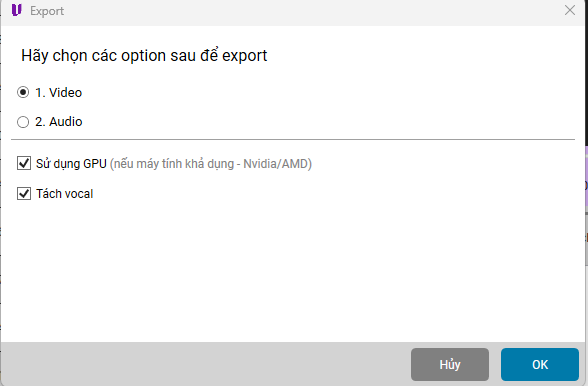
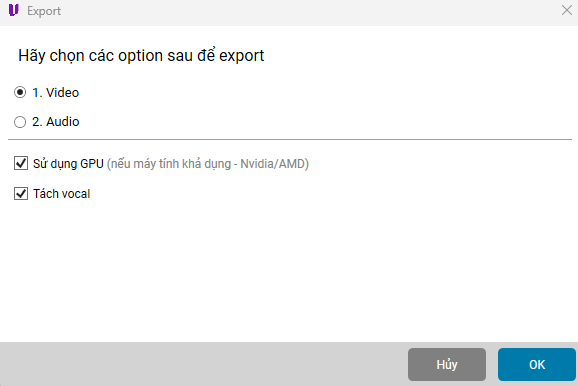
update ui

diff --git a/src/components/Highlight.js b/src/components/Highlight.js
@@ -1,0 +1,15 @@
+import React from 'react';
+
+const Highlight = ({children, color}) => (
+  <span
+    style={{
+      backgroundColor: color,
+      borderRadius: '2px',
+      color: '#fff',
+      padding: '0.2rem',
+    }}>
+    {children}
+  </span>
+);
+
+export default Highlight;

diff --git a/docusaurus.config.ts b/docusaurus.config.ts
@@ -86,6 +86,7 @@ const config: Config = {
           label: 'Hướng dẫn',
         },
         { to: '/blog', label: 'Changelog', position: 'left' },
+        { to: '/download', label: 'Download', position: 'left' },
         
       ],
     },

diff --git a/docs/tutorial-basics/5-thuyet-minh.md b/docs/tutorial-basics/5-thuyet-minh.md
@@ -11,44 +11,51 @@ Dịch và lồng tiếng phim từ ngôn ngữ này sang ngôn ngữ khác
 #### *Hình 1 - Giao diện template thuyết minh phim*
 
 ## I. Dịch phim
-    1. Lấy lyric
-        - Tự động
-            - Ở Menu **Lyric gốc** -> **Tạo tự động**. Thư viện sẽ tạo generate ra file .srt và tự động import máy tính
-        - Upload từ máy tính
-            - Ở Menu **Lyric gốc** -> **Upload từ máy tính**
-    2. Dịch
-        - Dịch tự động: **Lyric dịch** -> **Dịch**
-            - Chat GPT (Recommend)
-            - Microsoft
-        - Tải từ máy tính: **Lyric dịch** -> **Upload từ máy tính**
+
+### 1. Lấy lyric
+    - Tự động
+        - Ở Menu **Lyric gốc** -> **Tạo tự động**. Thư viện sẽ tạo generate ra file .srt và tự động import máy tính
+    - Upload từ máy tính
+        - Ở Menu **Lyric gốc** -> **Upload từ máy tính**
+### 2. Dịch
+    - Dịch tự động: **Lyric dịch** -> **Dịch**
+        - Chat GPT (Recommend)
+        - Microsoft
+    - Tải từ máy tính: **Lyric dịch** -> **Upload từ máy tính**
         
-    
-    *P/s: Sau khi dịch, bạn cần review lại bản dịch để confirm lại*
+:::note    
+Sau khi dịch, bạn cần review lại bản dịch để confirm lại
+:::
 
 ## II. Lồng tiếng
 
-    1. Tải audio
-        - Click vào item ở hình 1, ở trường **Chọn giọng TTK**, click vào ⋮ và áp dụng cho *tất cả* hoặc chọn *các item* tùy ý
-        - Có thể chọn clone sau khi tạo audio
-        - Menu **Audio** -> **Download Audio**
-        - Tải audio: bạn có thể chọn tốc độ phù hợp với giọng nói ở phim để download
+### 1. Tải audio
 
-        ![download-audio](/img/common/download-audio.png)
+    - Click vào item ở hình 1, ở trường **Chọn giọng TTK**, click vào ⋮ và áp dụng cho *tất cả* hoặc chọn *các item* tùy ý
+    - Có thể chọn clone sau khi tạo audio
+    - Menu **Audio** -> **Download Audio**
+    - Tải audio: bạn có thể chọn tốc độ phù hợp với giọng nói ở phim để download
 
-        **Hình 2 - Cửa sổ download audio**
+    ![download-audio](/img/common/download-audio.png)
 
-    2. Export video
-        - Chọn option xử lý audio (Ở phần *Cài đặt chung* trên hình 1)
-            - Mặc định
-            - Tự điều chỉnh tốc độ âm thanh
-            - Cắt phần âm thanh bị đè
-            - Kéo dãn video
-            - Tự động kéo dãn video và âm thanh
-            - Tự động điều chỉnh âm thanh
-        - Export
-            - Chọn sử dụng GPU hoặc không
-            - Tách vocal nếu muốn loại bỏ tiếng gốc của phim
+    **Hình 2 - Cửa sổ download audio**
 
-        ![export-video](/img/common/export-video.png)
+:::tip    
+Nếu tốc độ đọc của phim gốc nhanh, bạn cần chọn tốc độ cao khi download
+:::
 
-        **Hình 3 - Cửa sổ export video**
+### 2. Export video
+- Chọn option xử lý audio (Ở phần *Cài đặt chung* trên hình 1)
+    - Mặc định
+    - Tự điều chỉnh tốc độ âm thanh
+    - Cắt phần âm thanh bị đè
+    - Kéo dãn video
+    - Tự động kéo dãn video và âm thanh
+    - Tự động điều chỉnh âm thanh
+- Export
+    - Chọn sử dụng GPU hoặc không
+    - Tách vocal nếu muốn loại bỏ tiếng gốc của phim
+
+![export-video](/img/common/export-video.png)
+
+**Hình 3 - Cửa sổ export video**

diff --git a/docs/tutorial-basics/3-install-lib.md b/docs/tutorial-basics/3-install-lib.md
@@ -11,26 +11,26 @@ Cài đặt thư viện để sử dụng đầy đủ tính năng của ứng d
 Thư viện sẽ chuyển đổi video, audio ra text dạng file .srt format
 
 1. Download
-    - Download thư viện ở [lyric_driver](https://drive.google.com/file/d/1fbsjYrpJGJD2tYhNZSyUsWi8jmZbSeDS/view)
+    - Download thư viện ở **[Lyric driver](https://drive.google.com/file/d/1fbsjYrpJGJD2tYhNZSyUsWi8jmZbSeDS/view)**
     - Giải nén file vừa download (Recommend ở ổ đĩa SSD)
 2. Cài đặt
     - Vào project bất kỳ, ở thành Menu tìm đến **Công cụ** -> **Nhận diện lyric**
-    - Chọn đến file **lyric_.exe** ở thư mục vừa giải nén
+    - Chọn đến file `lyric_.exe` ở thư mục vừa giải nén
 
 ![Lyric](/img/lib/lyric.png)
 
-#### *Hình 1 - Giao diện thư viện lấy lyric*
+#### *Hình 1 - Giao diện thư viện get lyric*
 
 ## II. Thư viện clone audio
 
 1. Download
-    - Download thư viện ở [clone_driver](https://drive.google.com/file/d/1nNkbe6iX3K-JzWOKErvDmQYR5wABDBMM/view)
+    - Download thư viện ở **[clone driver](https://drive.google.com/file/d/1nNkbe6iX3K-JzWOKErvDmQYR5wABDBMM/view)**
     - Giải nén file vừa download (Recommend ở ổ đĩa SSD)
 2. Cài đặt
     - Vào project bất kỳ, ở thành Menu tìm đến **Công cụ** -> **Voice clone**
     - Chọn đến thư mục vừa giải nén
 3. Thêm các giọng clone
-    - Tải các giọng clone ở dạng file .zip ở các link sau [web](https://voice-models.com/) hoặc [model_driver](https://drive.google.com/drive/folders/1ur5F2J7mP2g6AAdrJde96UPxywDLQOs7)
+    - Tải các giọng clone ở dạng file `.zip` ở các link sau **[web](https://voice-models.com/)** hoặc **[model driver](https://drive.google.com/drive/folders/1ur5F2J7mP2g6AAdrJde96UPxywDLQOs7)**
     - Sau khi download xong, vào cửa sổ vừa mở (hình 2), nhấn **Thêm** và chọn đến các đường dẫn file vừa download
     - Chọn ngôn ngữ của giọng vừa download và sửa tên phù hợp để dễ dàng sử dụng
 
@@ -43,8 +43,9 @@ Thư viện sẽ chuyển đổi video, audio ra text dạng file .srt format
 1. Cài đặt
     - Vào project bất kỳ, ở thành Menu tìm đến **Công cụ** -> **Tách vocal**
     - Cửa sổ tách vocal hiện ra (hình 3), vào **Công cụ** -> **Cài đặt manual**
-    - Chương trình sẽ ghi xuống 1 file .bat vào máy tính
-    - Bạn chạy file .bat (nhiều hơn 2 lần) cho đến khi báo thành công
+    - Chương trình sẽ ghi xuống 1 file `remove_vocal.bat` vào máy tính
+    - Mở terminal tại thư mục, gõ tên `remove_vocal.bat` và Enter
+    - Chạy ít nhất 3 lần cho đến khi báo thành công
     - Khởi động lại máy tính, tìm đến cửa sổ Tách Vocal. Ở phía dưới cửa sổ, có button ***Bắt đầu xử lý*** là đã cài đặt thành công
 
 ![RemoveVocal](/img/lib/remove-vocal.png)

diff --git a/docs/tutorial-basics/4-text2speech.md b/docs/tutorial-basics/4-text2speech.md
@@ -13,12 +13,15 @@ Hỗ trợ nhiều ngôn ngữ và nhiều giọng
 - Tiếng Tây Ban Nha
 - Tiếng Bồ Đào Nha
 
-## Chuyển đổi
+## Chọn giọng và nhập văn bản
 
-- B1. Chọn 1 trong 2 loại giọng **TTK** hoặc **Microsoft**, sau đó có thể chọn **clone**
-- B2. Nhập văn bản cần chuyển đổi vào input
-- B3. Nếu chọn **clone**, ở phần **Cài đặt nâng cao**, chọn đúng **Embbedder model** phù hợp với ngôn ngữ
-- B4. Nhấn vào **Export** hoặc **Tạo audio**, đặt tên file output và sau đó nhấn **OK**
+- Chọn 1 trong 2 loại giọng **TTK** hoặc **Microsoft**, sau đó có thể chọn **clone**
+- Nếu chọn **clone**, cần chọn giọng đúng với ngôn ngữ và ở phần **Cài đặt nâng cao**, chọn đúng **Embbedder model** phù hợp với ngôn ngữ đó
+- Nhập văn bản cần chuyển đổi vào input
+
+## Export audio
+
+- Nhấn vào **Export** hoặc **Tạo audio**, đặt tên file output và sau đó nhấn **OK**
 
 ![rvc](/img/speech2text/rvc.png)
 

diff --git a/docs/intro.md b/docs/intro.md
@@ -25,8 +25,9 @@ Tạo project để làm việc
 
 Các thư viện cần thiết để chạy project full tính năng
 
-- Thư viện generate lyric -> lấy lyric của video, audio
+- Thư viện generate lyric -> speech 2 text
 - Thư viện voice clone -> clone giọng nói
+- Thư viện tách vocal
 
 ## Các tính năng chính
 
@@ -35,5 +36,8 @@ Các thư viện cần thiết để chạy project full tính năng
  3. Viết lại kịch bản theo phong cách tùy chỉnh
  4. Tạo giọng nói từ text, có thể clone theo giọng bất kỳ
  5. Làm lyric cho video
- 6. Tránh bản quyền
+ 6. Anti CR
 
+:::tip
+Bạn có thể mở đồng thời nhiều `instance` để làm việc với nhiều project cùng 1 lúc
+:::

diff --git a/docs/tutorial-basics/2-create-project.md b/docs/tutorial-basics/2-create-project.md
@@ -38,3 +38,17 @@ Tạo project mới hoặc mở project đã làm trước đó
 
 - B1. Ở hình 1, tìm trong bảng project cần mở, hoặc click vào biểu tượng tìm kiếm (🔍) sau đó gõ tên và Enter
 - B2. Click đúp vào project hoặc nhấn vào **⋮** và chọn **Mở**
+
+
+:::note
+
+Nếu project chiếm dung lượng lớn, bạn hãy mở project. Sau đó chọn vào menu **Project -> Mở project trong windows**
+và xóa các file `.mp4, .mp3` để giải phóng bộ nhớ
+
+:::
+
+
+:::danger
+Không xóa file có đuôi `.vmva`. Đây là file chưa thông tin project
+:::
+

diff --git a/docs/tutorial-basics/1-login.md b/docs/tutorial-basics/1-login.md
@@ -25,7 +25,7 @@ Dùng **user** và **password** để đăng nhập
 #### *Hình 1 - Giao diện đăng nhập app*
 
 
-## II. Computer Id
+## II. Đăng ký
 
 Là mã đại diện cho thiết bị 
 - B1 - Click vào đăng ký tài khoản, một cửa sổ hiện như hình 2
